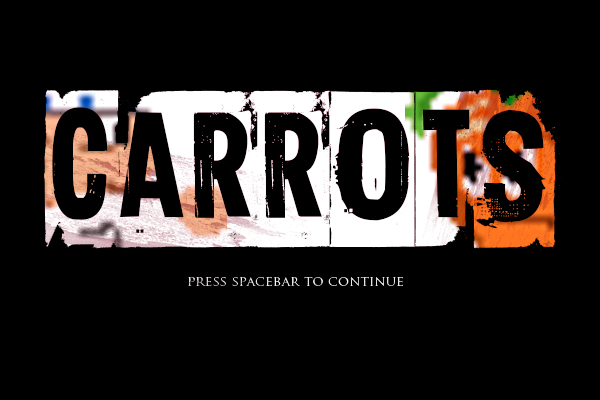
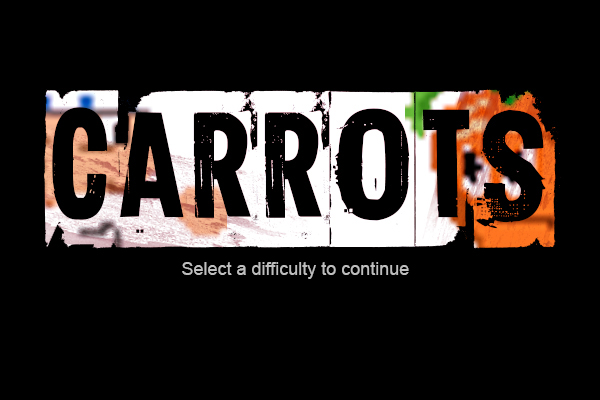
edited the menu to reflect new options

Changed region(s): [[0.3, 0.66, 0.69, 0.72]]

diff --git a/js/menu.js b/js/menu.js
@@ -12,8 +12,6 @@ demo.menu.prototype = {
         music = game.add.audio('music');
         music.play()
         
-        difficulty = 4000
-        
         background = game.add.tileSprite(0, 0, 600, 400, 'startscreen')
         
         easy = game.add.button(game.world.centerX - 295, 300, 'easy', easyClick, this, 2, 1, 0);
@@ -39,16 +37,19 @@ function startGame(i, stateNum){
 }
 
 function easyClick() {
-    difficulty = 4000;
+    difficulty = 2000;
+    game.state.start('state2');
     
 }
 
 function mediumClick() {
-    difficulty = 2000;
+    difficulty = 1000;
+    game.state.start('state2');
     
 }
 function hardClick() {
-    difficulty = 400;
+    difficulty = 100;
+    game.state.start('state2');
     
 }
 

diff --git a/js/gameover.js b/js/gameover.js
@@ -29,5 +29,5 @@ demo.gameover.prototype = {
 };
 
 function changeState(i, stateNum){
-    game.state.start('menu',true, false);
+    game.state.start('menu');
 }
